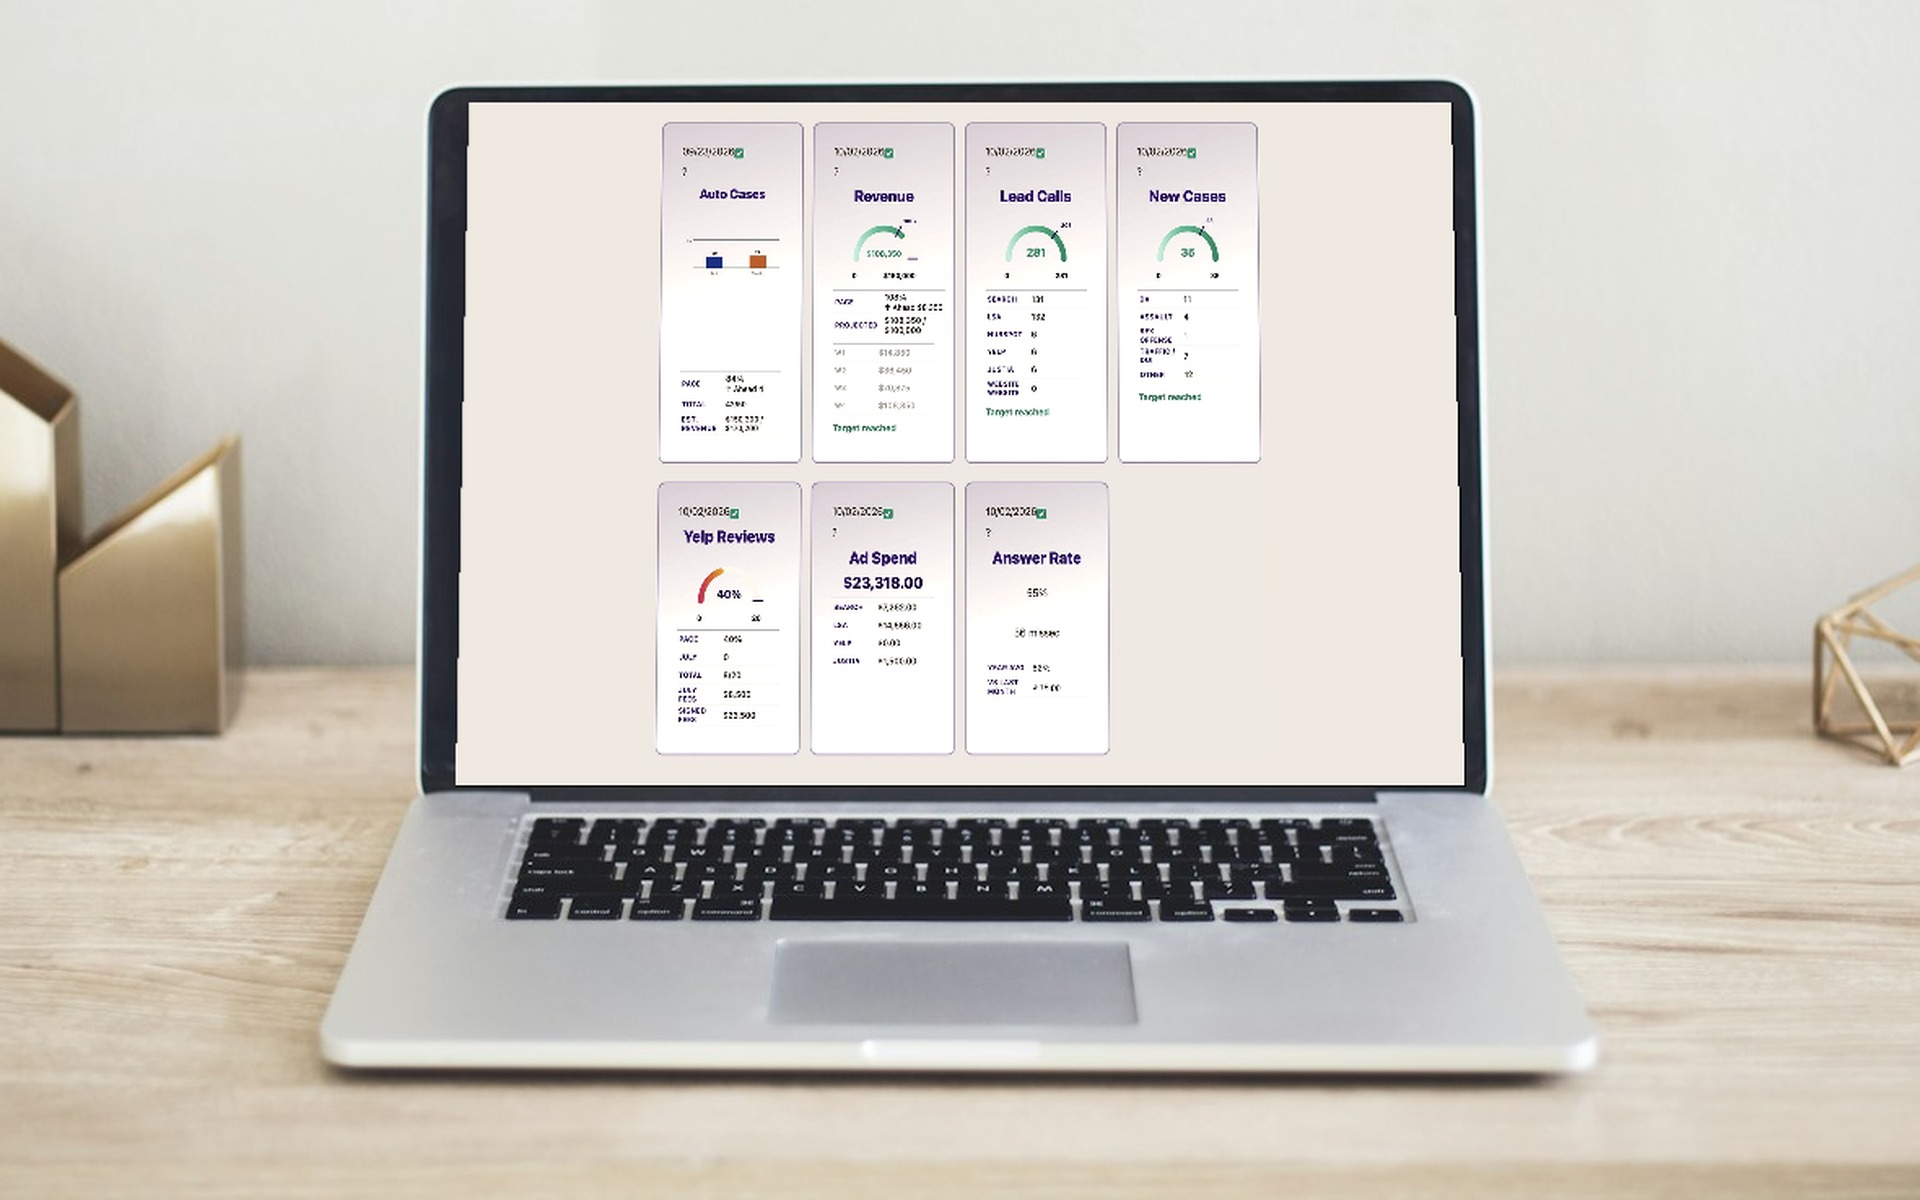
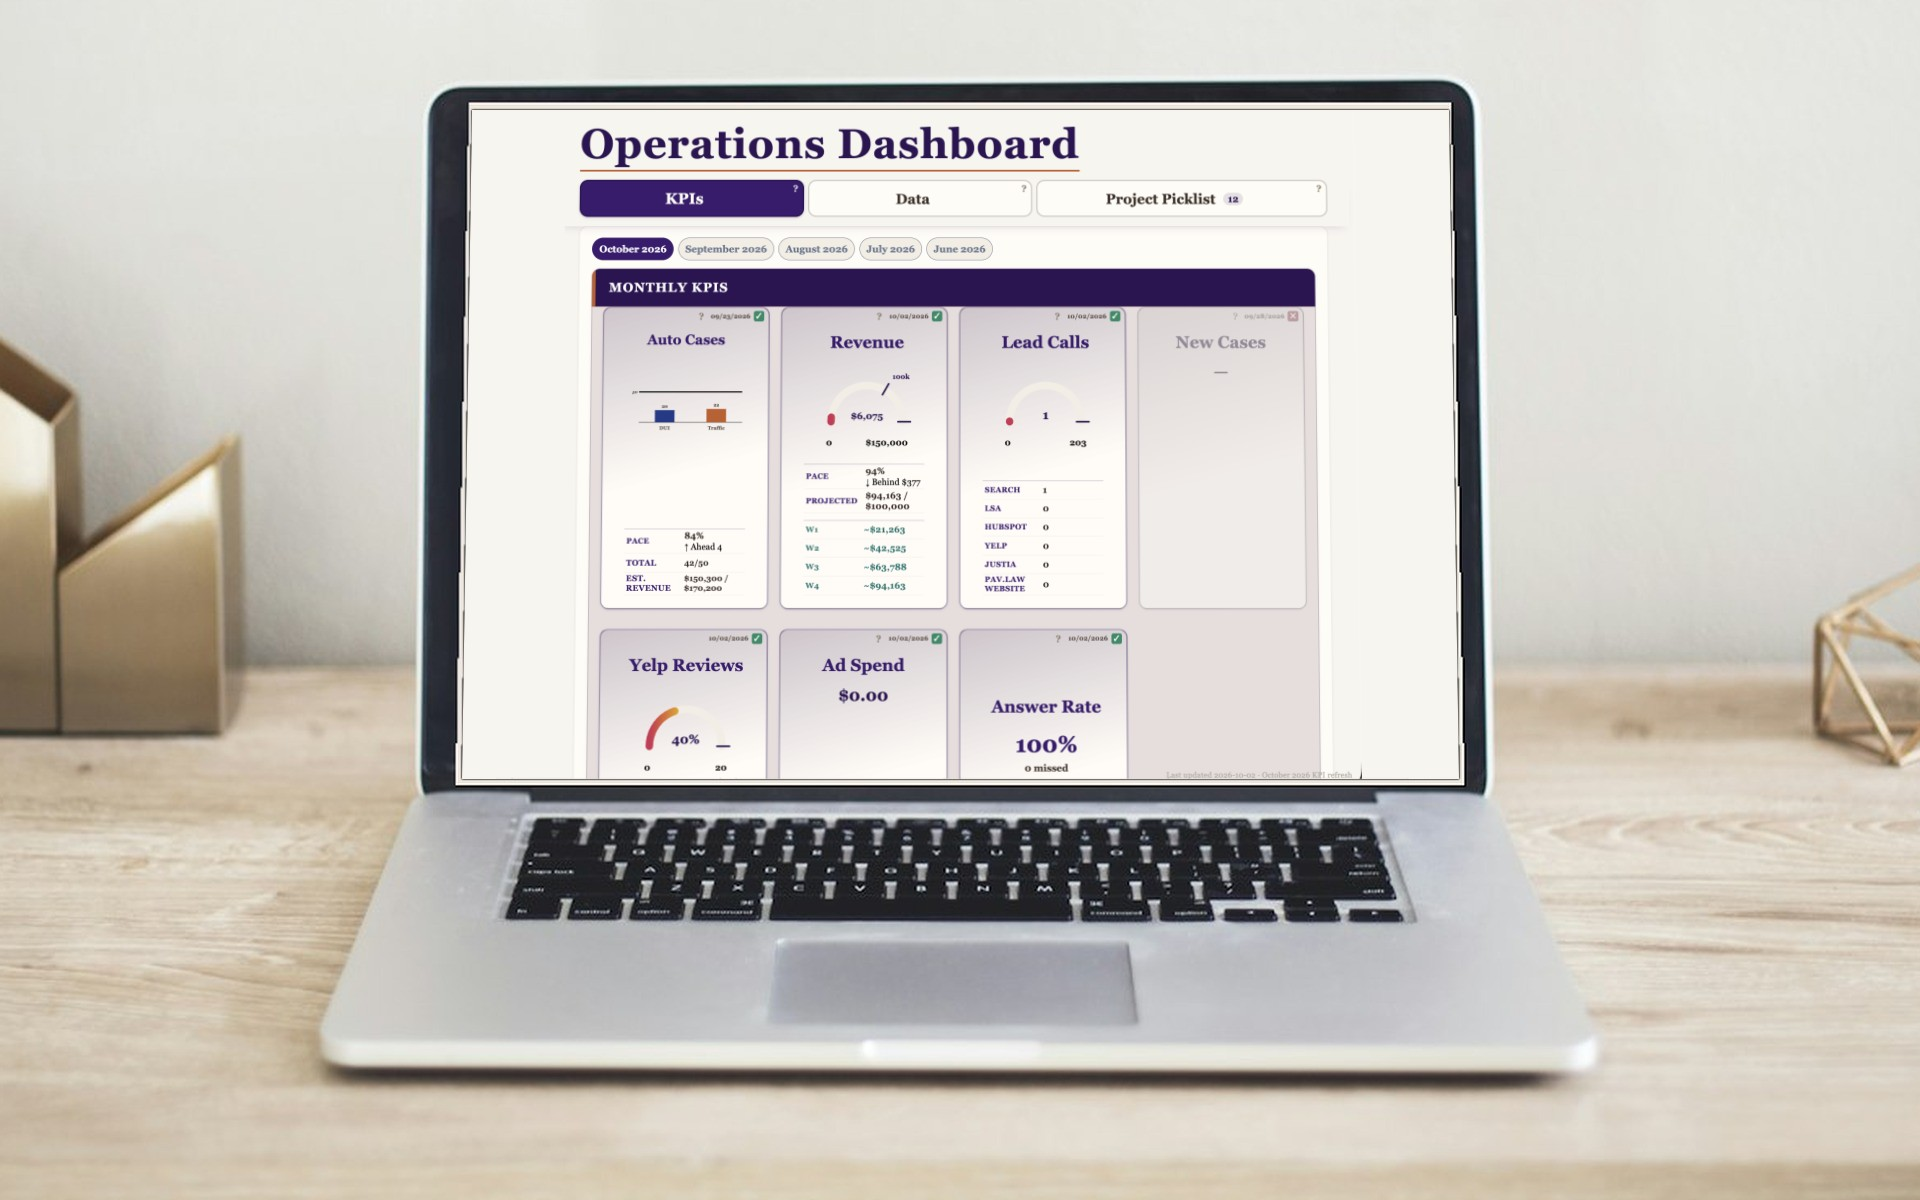
Publish Career Highlights copy, laptop KPI, and drop the Selected work index.

Changed region(s): [[0.2812, 0.0925, 0.6875, 0.6475]]

diff --git a/index.html b/index.html
@@ -104,78 +104,6 @@
 }
 
 
-#works-text .works-text-list {
-  display: flex;
-  flex-direction: column;
-}
-#works-text .works-text-row {
-  display: grid;
-  grid-template-columns: 1fr;
-  gap: 0.55rem 2.5rem;
-  padding: 1.75rem 0;
-  border-top: 1px solid #1A3326;
-  text-decoration: none;
-  color: inherit;
-}
-@media (min-width: 768px) {
-  #works-text .works-text-row {
-    grid-template-columns: 7.5rem minmax(0, 1fr);
-    align-items: start;
-    padding: 2.1rem 0;
-  }
-}
-#works-text .works-text-row:last-child { border-bottom: 1px solid #1A3326; }
-#works-text .works-text-idx {
-  font-family: ui-monospace, SFMono-Regular, Menlo, monospace;
-  font-size: 0.65rem;
-  letter-spacing: 0.22em;
-  text-transform: uppercase;
-  color: #A3B8A8;
-  padding-top: 0.35rem;
-}
-#works-text .works-text-row h3 {
-  font-family: "Playfair Display", Georgia, serif;
-  font-size: clamp(1.5rem, 3vw, 2.15rem);
-  line-height: 1.05;
-  letter-spacing: -0.03em;
-  color: #F4F1EB;
-  margin: 0 0 0.45rem;
-}
-#works-text .works-text-row p {
-  margin: 0;
-  max-width: 40rem;
-  color: #A3B8A8;
-  font-size: 1rem;
-  line-height: 1.6;
-}
-#works-text .works-text-stats {
-  display: flex;
-  flex-wrap: wrap;
-  gap: 1.1rem 2.25rem;
-  margin-top: 1rem;
-}
-#works-text .works-text-stat {
-  min-width: 6.25rem;
-}
-#works-text .works-text-stat span {
-  display: block;
-  font-family: "Playfair Display", Georgia, serif;
-  font-size: 1.2rem;
-  line-height: 1.1;
-  letter-spacing: -0.02em;
-  color: #F4F1EB;
-}
-#works-text .works-text-stat small {
-  display: block;
-  margin-top: 0.28rem;
-  font-family: ui-monospace, SFMono-Regular, Menlo, monospace;
-  font-size: 0.62rem;
-  letter-spacing: 0.16em;
-  text-transform: uppercase;
-  color: #A3B8A8;
-}
-#works-text .works-text-row:hover h3 { color: #A3B8A8; }
-
 #works .work-photo--dash img { object-position: center center; }
 #works .work-photo {
   position: relative;
@@ -300,71 +228,30 @@ Career High<em class="not-italic text-[#A3B8A8]">lights</em> </h2> </div> </div>
 <div class="works-lp reveal" id="works-lp">
   <div class="works-lp-list" role="listbox" aria-label="Career highlights" id="works-lp-list">
     <button type="button" class="works-lp-btn" role="option" aria-selected="true" data-works-i="0" data-cursor="explore">
-      <span class="works-lp-kind">MarTech</span>
+      <span class="works-lp-kind">Lead Generation</span>
       <span class="works-lp-title">Legal Firm Operations Consulting</span>
       <span class="works-lp-stats">~87% new cases · 2x lead volume · ~61% $/phone</span>
     </button>
     <button type="button" class="works-lp-btn" role="option" aria-selected="false" data-works-i="1" data-cursor="explore">
-      <span class="works-lp-kind">Attribution</span>
+      <span class="works-lp-kind">MarTech: Attribution</span>
       <span class="works-lp-title">1.3 Billion Recovered</span>
+      <span class="works-lp-stats">$1.3B recovered · ~70% fewer errors · ~$45M/qt</span>
     </button>
     <button type="button" class="works-lp-btn" role="option" aria-selected="false" data-works-i="2" data-cursor="explore">
       <span class="works-lp-kind">Training</span>
       <span class="works-lp-title">Presenter at Industry Conference</span>
+      <span class="works-lp-stats">How to identify process improvements for your team and tech</span>
     </button>
   </div>
   <div class="works-lp-preview" id="works-lp-preview" aria-live="polite">
     <div class="work-photo work-photo--dash">
-      <img src="assets/works/kpi-dashboard.jpg?v=dash3" alt="Operations KPI dashboard on a laptop screen" class="w-full h-full object-cover object-center" loading="lazy" width="960" height="600" id="works-lp-img">
+      <img src="assets/works/kpi-dashboard.jpg?v=dash4" alt="Operations KPI dashboard on a laptop screen" class="w-full h-full object-cover object-center" loading="lazy" width="960" height="600" id="works-lp-img">
     </div>
-    <p class="text-[#A3B8A8] text-xs font-mono tracking-widest uppercase mb-1" id="works-lp-kind">MarTech</p>
+    <p class="text-[#A3B8A8] text-xs font-mono tracking-widest uppercase mb-1" id="works-lp-kind">Lead Generation</p>
     <h3 id="works-lp-title">Legal Firm Operations Consulting</h3>
     <p class="works-lp-body" id="works-lp-body">Ops dashboard for a legal industry practice. Immediate growth, value, and cash added for small businesses. New cases ~87% higher YoY. Lead volume more than doubled. Search cost per phone down ~61%.</p>
     <a class="works-lp-link" id="works-lp-link" href="#works">View detail</a>
   </div>
-</div>
-</section><section id="works-text" class="bg-[#0B1C14] px-6 md:px-12 pb-24 md:pb-32">
-  <div class="mb-12 md:mb-16 reveal">
-    <span class="text-[#A3B8A8] text-xs font-mono tracking-[0.3em] uppercase block mb-4">003 / Index</span>
-    <h2 class="font-serif text-[clamp(2.5rem,6vw,5rem)] text-[#F4F1EB] leading-[0.9] tracking-tighter">Selected <em class="not-italic text-[#A3B8A8]">work</em></h2>
-  </div>
-  <div class="works-text-list">
-<a class="works-text-row reveal" href="#works">
-  <span class="works-text-idx">01 / MarTech</span>
-  <div>
-    <h3>Legal Firm Operations Consulting</h3>
-    <p>Ops dashboard for a legal industry practice. Immediate growth, value, and cash added for small businesses. New cases ~87% higher YoY. Lead volume more than doubled. Search cost per phone down ~61%.</p>
-    <div class="works-text-stats">
-      <div class="works-text-stat"><span>~87%</span><small>New cases YoY</small></div>
-      <div class="works-text-stat"><span>2x</span><small>Lead volume</small></div>
-      <div class="works-text-stat"><span>~61%</span><small>Lower Search $/phone</small></div>
-    </div>
-  </div>
-</a>
-<a class="works-text-row reveal" href="#works">
-  <span class="works-text-idx">02 / Attribution</span>
-  <div>
-    <h3>1.3 Billion Recovered</h3>
-    <p>Automated Global Campaign Audit that prepopulated records, ran workflows, and flagged corrections for hundreds of stakeholders. Year one recovered $1.3B in Marketing Pipe and cut manual data-entry errors ~70%.</p>
-    <div class="works-text-stats">
-      <div class="works-text-stat"><span>$1.3B</span><small>Recovered year one</small></div>
-      <div class="works-text-stat"><span>~70%</span><small>Fewer data-entry errors</small></div>
-      <div class="works-text-stat"><span>~$45M/qt</span><small>Attribution recovered</small></div>
-    </div>
-  </div>
-</a>
-<a class="works-text-row reveal" href="https://www.youtube.com/watch?v=Ok0SnFfD7Xs" target="_blank" rel="noopener noreferrer">
-  <span class="works-text-idx">03 / Training</span>
-  <div>
-    <h3>Presenter at Industry Conference</h3>
-    <p>Taught a training workshop at ClickUp's Level Up event. Live instruction for operators on merging people, process, and systems, not a slide walkthrough of one integration.</p>
-    <div class="works-text-stats">
-      <div class="works-text-stat"><span>Live</span><small>Workshop</small></div>
-      <div class="works-text-stat"><span>ClickUp</span><small>Level Up event</small></div>
-      <div class="works-text-stat"><span>Ops</span><small>People, process, systems</small></div>
-    </div>
-  </div>
-</a>
 </div>
 </section> <section id="manifesto" class="relative bg-[#0B1C14] py-24 md:py-40 overflow-hidden"> <div class="tool-cloud" aria-hidden="true">
 <svg class="tool-cloud-net" viewBox="0 0 100 100" preserveAspectRatio="none" fill="none"><line x1="7" y1="8" x2="20" y2="5"/><line x1="7" y1="8" x2="10" y2="14"/><line x1="20" y1="5" x2="18" y2="18"/><line x1="20" y1="5" x2="24" y2="12"/><line x1="38" y1="7" x2="34" y2="9"/><line x1="38" y1="7" x2="48" y2="4"/><line x1="62" y1="6" x2="66" y2="10"/><line x1="62" y1="6" x2="48" y2="4"/><line x1="80" y1="8" x2="76" y2="14"/><line x1="80" y1="8" x2="86" y2="10"/><line x1="93" y1="12" x2="84" y2="17"/><line x1="93" y1="12" x2="95" y2="26"/><line x1="93" y1="12" x2="86" y2="10"/><line x1="5" y1="22" x2="18" y2="18"/><line x1="5" y1="22" x2="10" y2="14"/><line x1="18" y1="18" x2="24" y2="12"/><line x1="18" y1="18" x2="22" y2="28"/><line x1="18" y1="18" x2="10" y2="14"/><line x1="84" y1="17" x2="76" y2="14"/><line x1="84" y1="17" x2="78" y2="30"/><line x1="84" y1="17" x2="86" y2="10"/><line x1="95" y1="26" x2="88" y2="36"/><line x1="4" y1="38" x2="14" y2="34"/><line x1="4" y1="38" x2="8" y2="46"/><line x1="14" y1="34" x2="22" y2="28"/><line x1="88" y1="36" x2="96" y2="44"/><line x1="88" y1="36" x2="78" y2="30"/><line x1="96" y1="44" x2="92" y2="48"/><line x1="5" y1="54" x2="12" y2="62"/><line x1="5" y1="54" x2="8" y2="46"/><line x1="12" y1="62" x2="7" y2="74"/><line x1="90" y1="56" x2="96" y2="64"/><line x1="90" y1="56" x2="92" y2="48"/><line x1="96" y1="64" x2="94" y2="76"/><line x1="7" y1="74" x2="16" y2="82"/><line x1="16" y1="82" x2="26" y2="78"/><line x1="28" y1="90" x2="26" y2="78"/><line x1="28" y1="90" x2="32" y2="86"/><line x1="50" y1="88" x2="32" y2="86"/><line x1="50" y1="88" x2="68" y2="85"/><line x1="72" y1="90" x2="74" y2="76"/><line x1="72" y1="90" x2="68" y2="85"/><line x1="86" y1="80" x2="94" y2="76"/><line x1="86" y1="80" x2="74" y2="76"/><line x1="24" y1="12" x2="34" y2="9"/><line x1="76" y1="14" x2="66" y2="10"/><line x1="26" y1="78" x2="32" y2="86"/><line x1="74" y1="76" x2="68" y2="85"/></svg>
@@ -872,17 +759,17 @@ Let's Get Connected
           var photoWrap = img ? img.closest('.work-photo') : null;
           var items = [
             {
-              kind: 'MarTech',
+              kind: 'Lead Generation',
               title: 'Legal Firm Operations Consulting',
               body: 'Ops dashboard for a legal industry practice. Immediate growth, value, and cash added for small businesses. New cases ~87% higher YoY. Lead volume more than doubled. Search cost per phone down ~61%.',
               href: '#works',
-              img: 'assets/works/kpi-dashboard.jpg?v=dash3',
+              img: 'assets/works/kpi-dashboard.jpg?v=dash4',
               alt: 'Operations KPI dashboard on a laptop screen',
               dash: true,
               external: false
             },
             {
-              kind: 'Attribution',
+              kind: 'MarTech: Attribution',
               title: '1.3 Billion Recovered',
               body: 'Automated Global Campaign Audit that prepopulated records, ran workflows, and flagged corrections for hundreds of stakeholders. Year one recovered $1.3B in Marketing Pipe and cut manual data-entry errors ~70%.',
               href: '#works',
